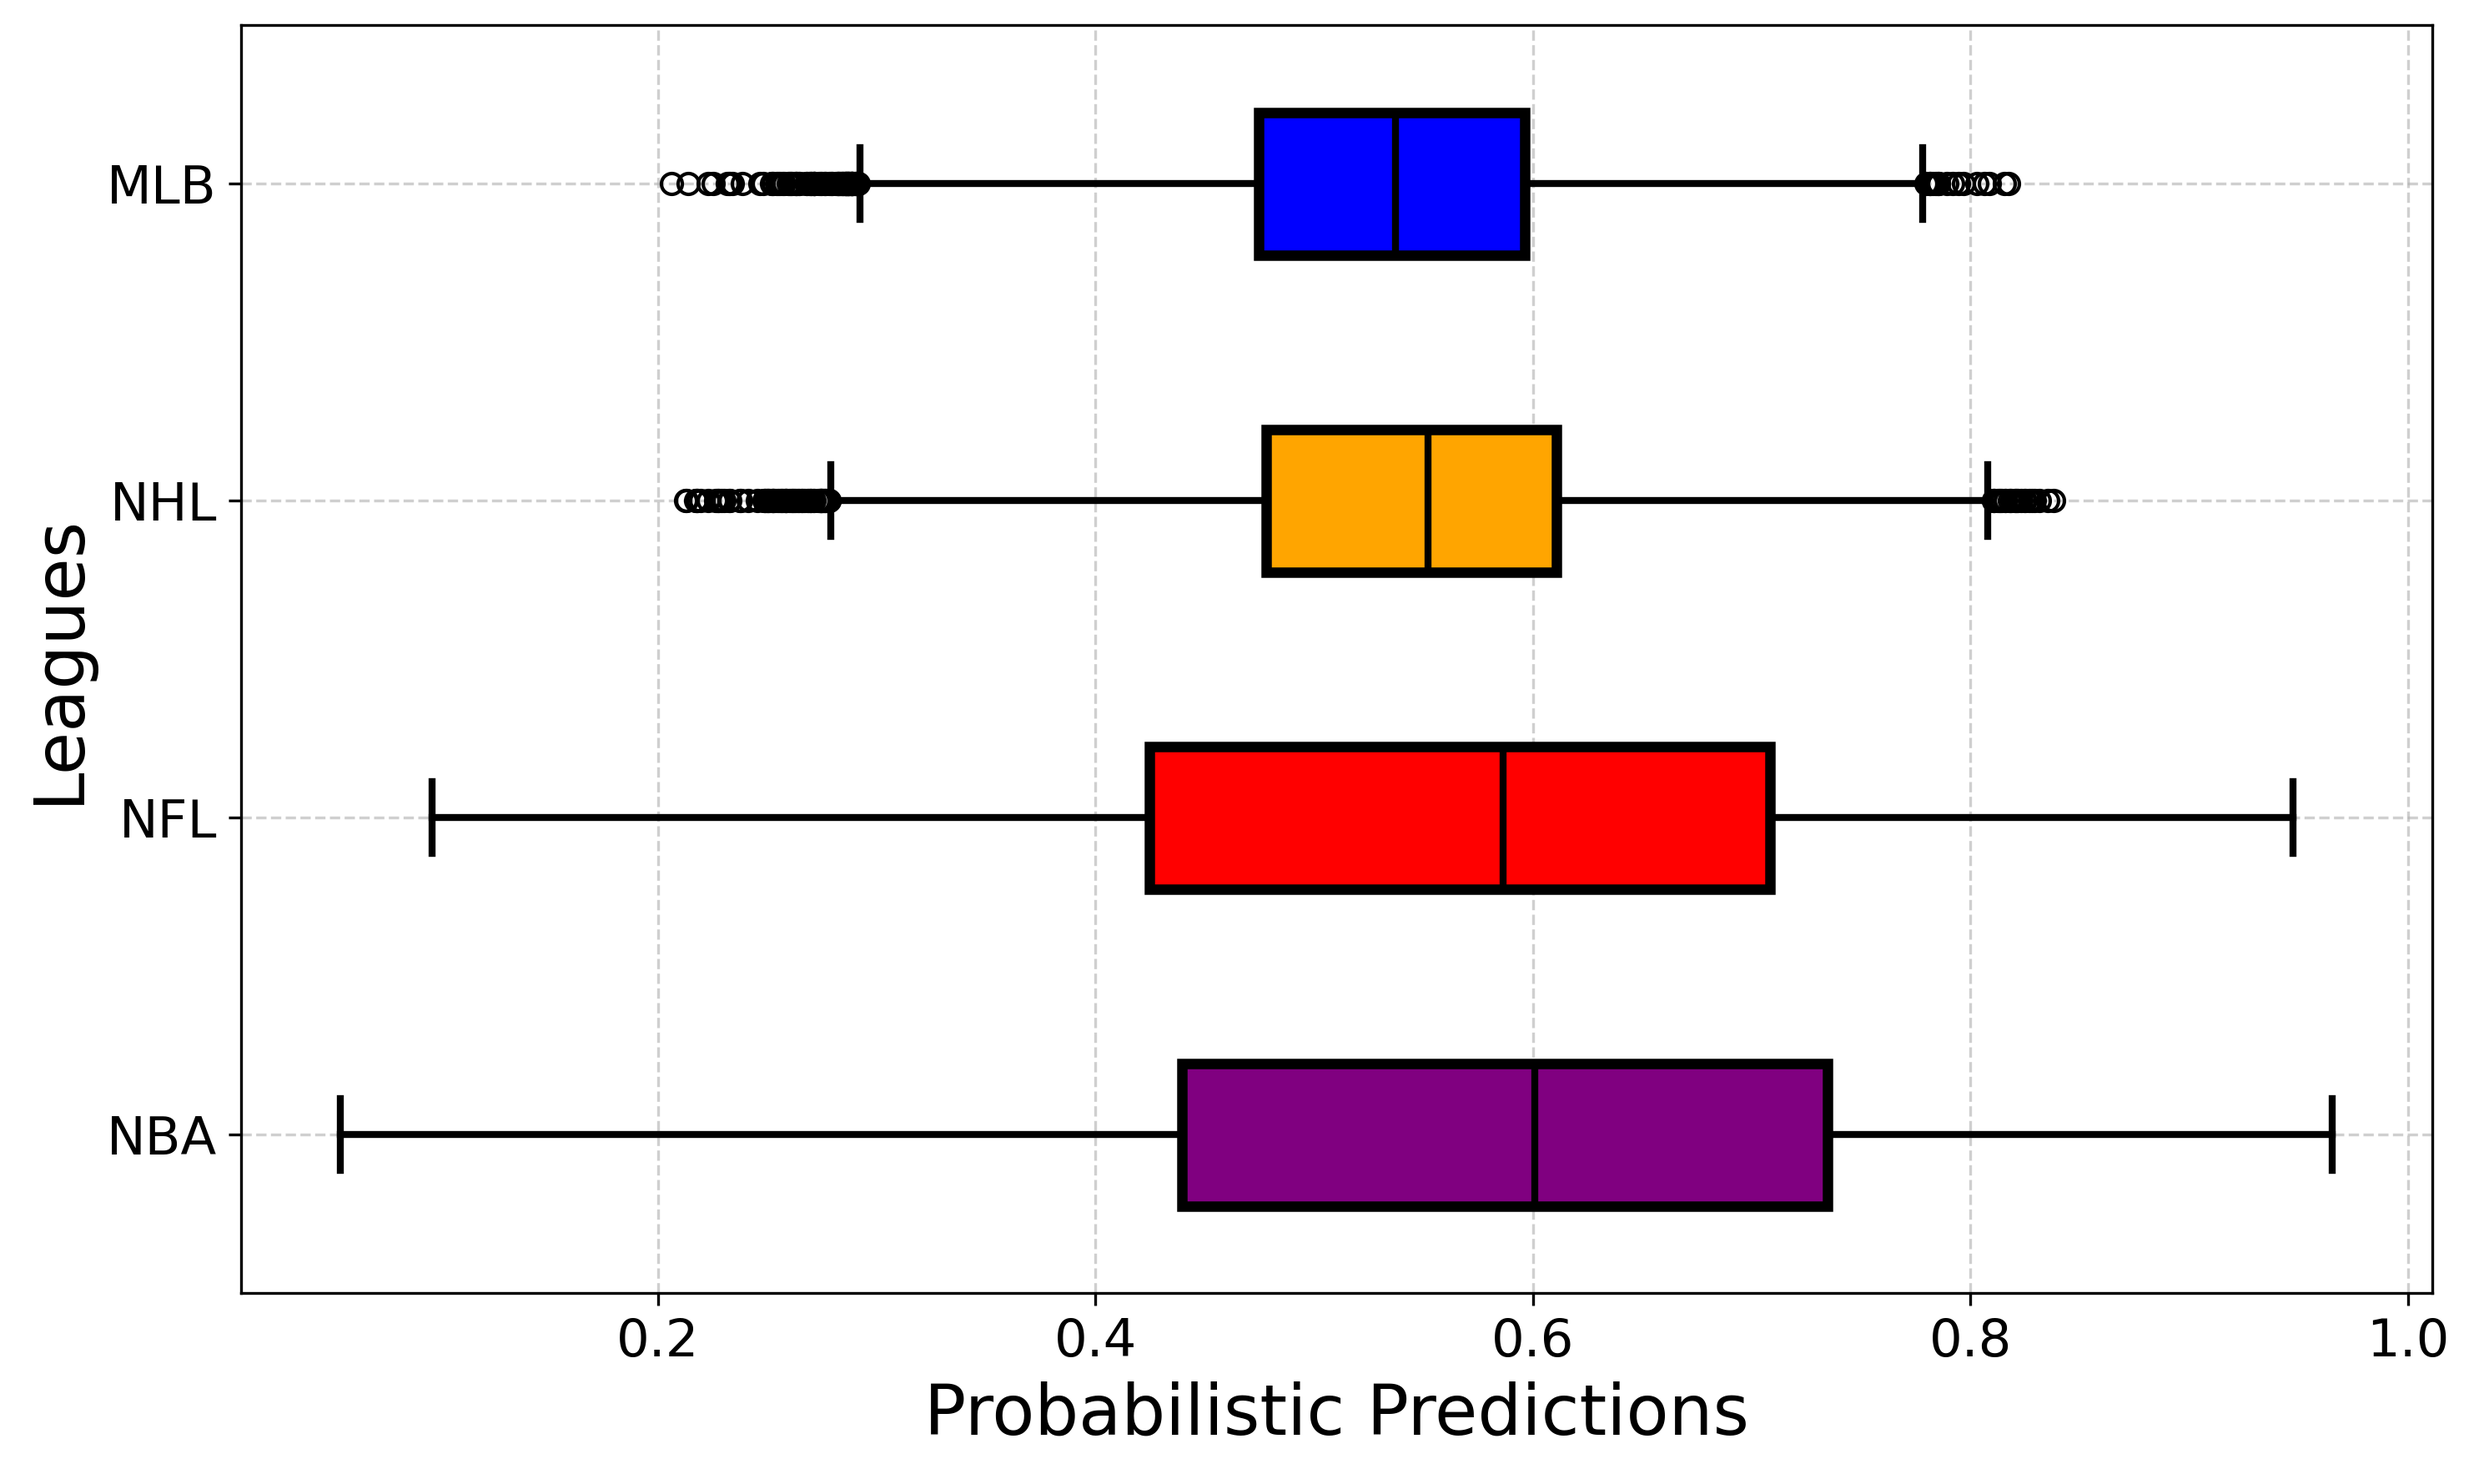
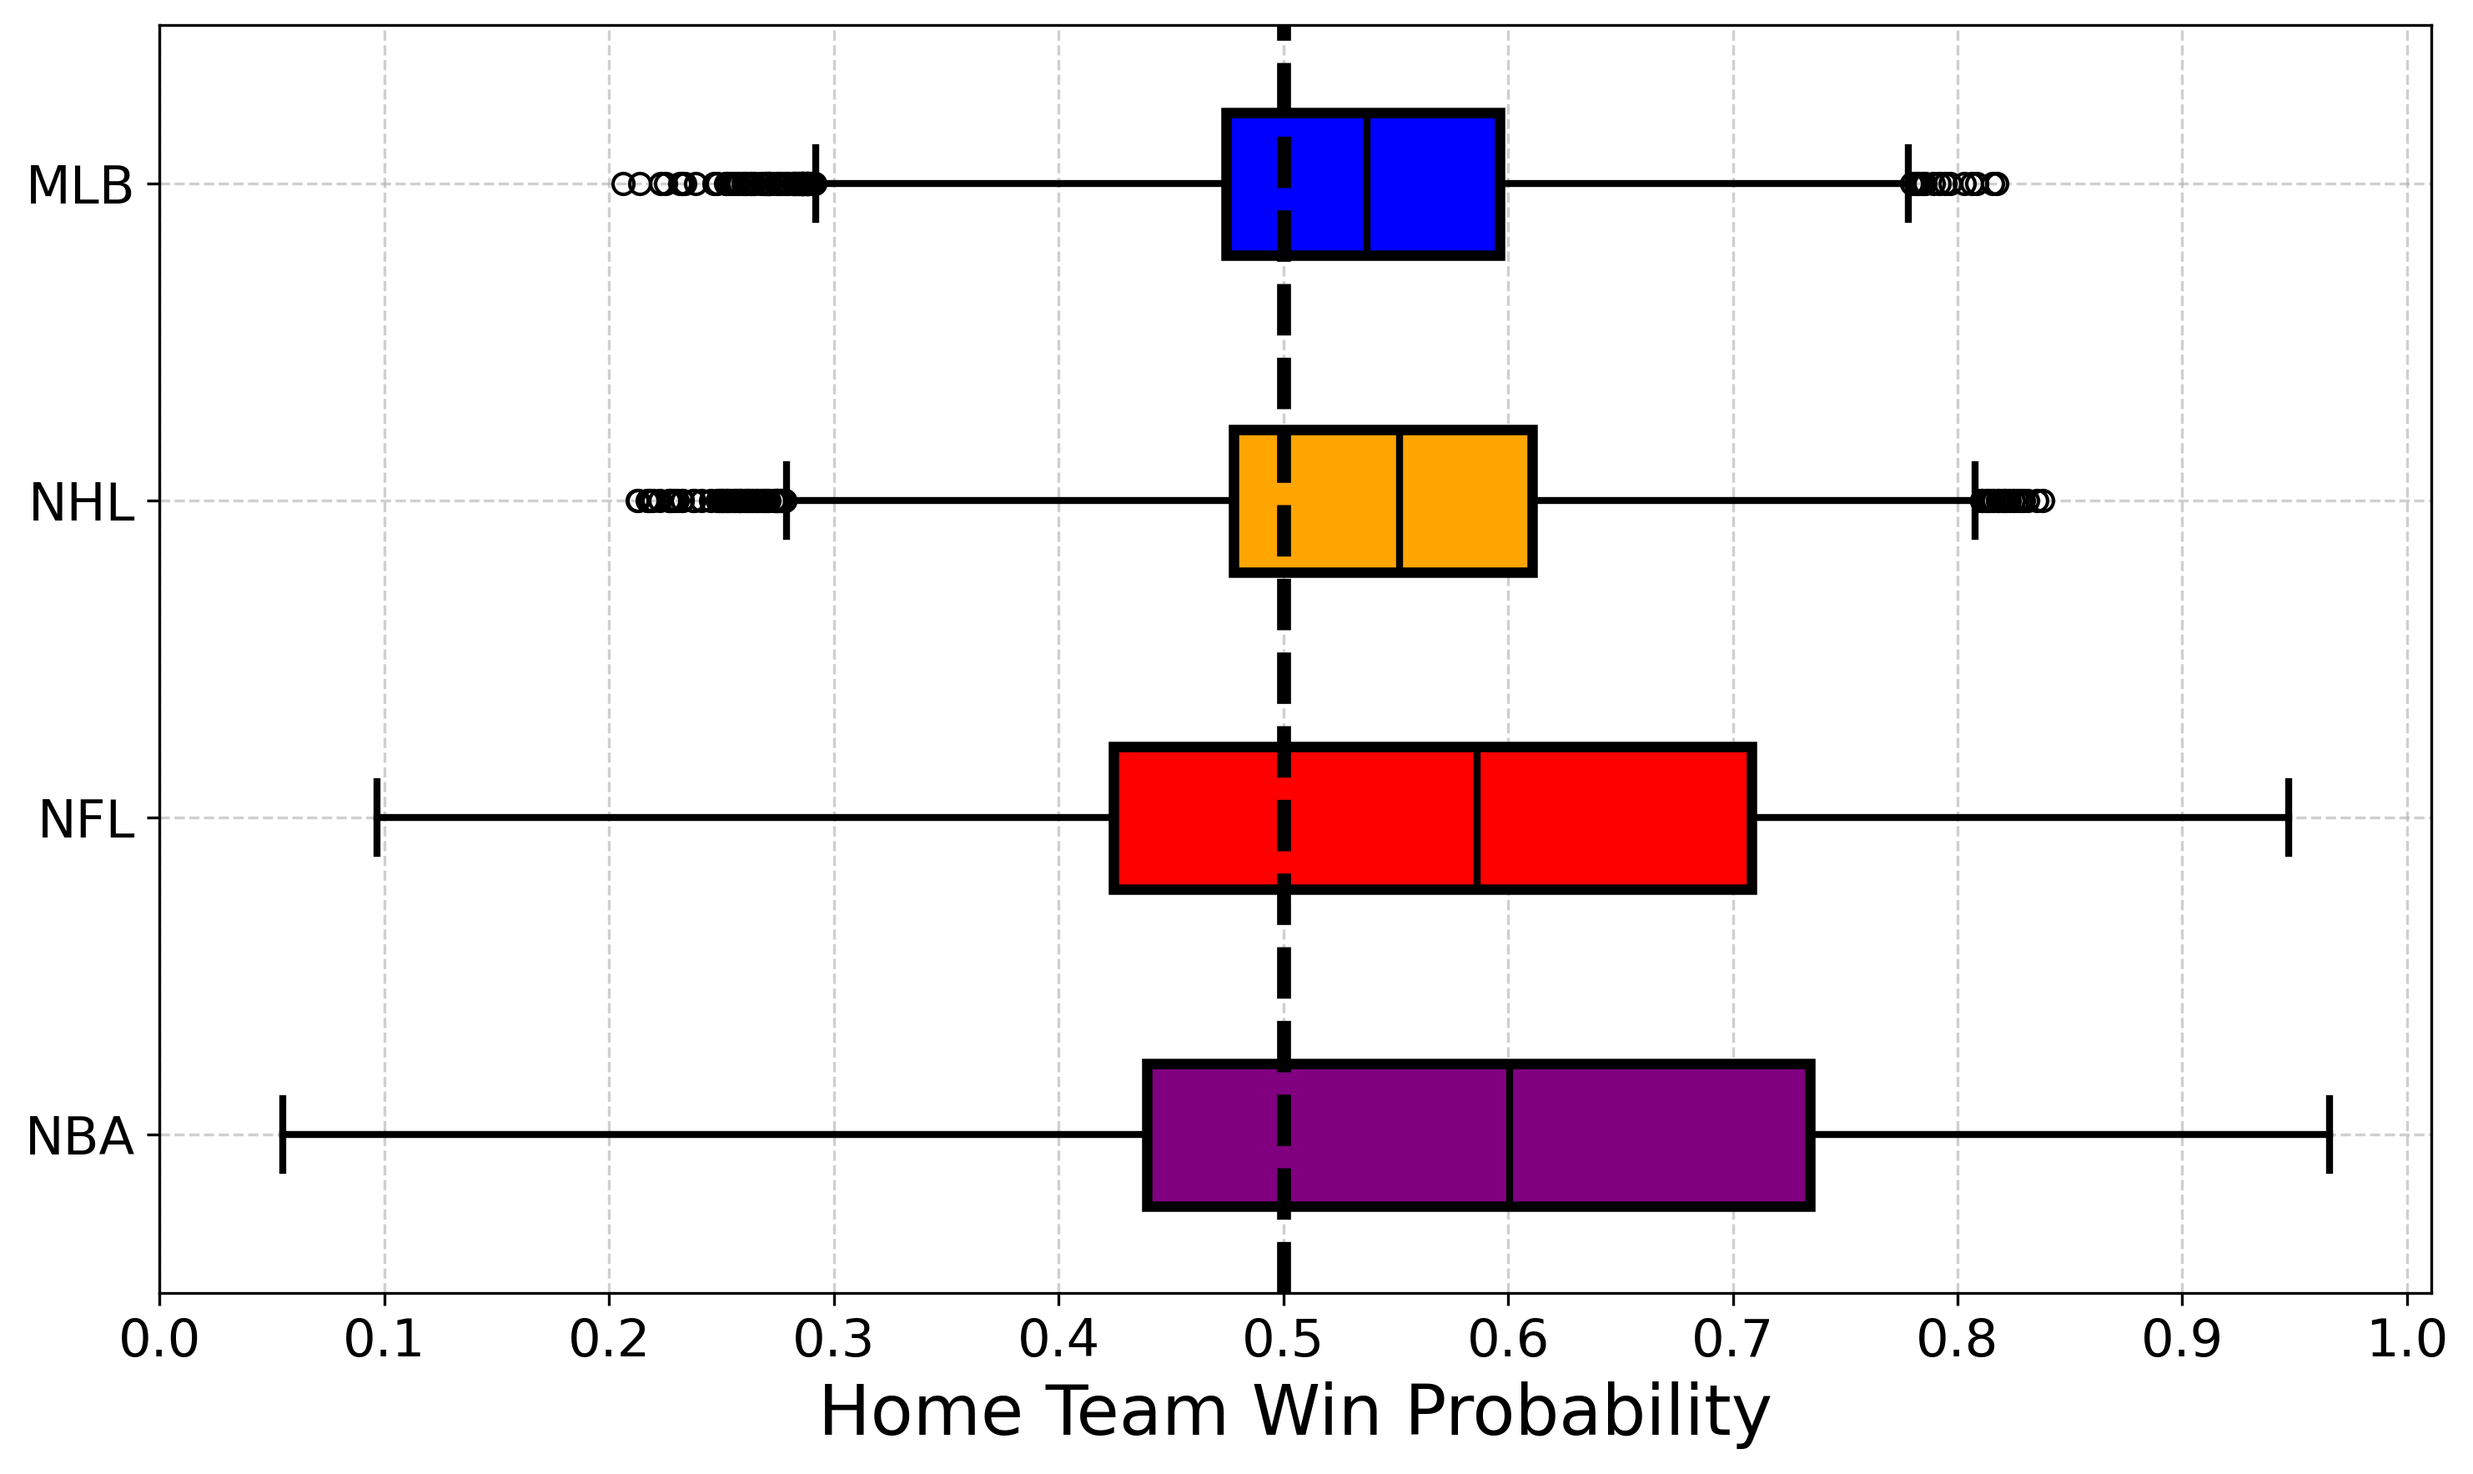
more figure updates

diff --git a/src/graphing/brier_vs_win_rate.py b/src/graphing/brier_vs_win_rate.py
@@ -3,38 +3,29 @@ import matplotlib.pyplot as plt
 import numpy as np
 from scipy.stats import pearsonr
 
-# Load data
 winrates_df = pd.read_csv("results/nfl_team_win_rates.csv")
 brier_scores_df = pd.read_csv("results/nfl_by_team.csv")
 
-# Merge data
 merged_df = pd.merge(winrates_df, brier_scores_df, on='team')
 
-# Calculate absolute difference from 0.5
 x = abs(merged_df['win_rate'] - 0.5)
 y = merged_df['brier_score']
 
-# Perform linear regression
 slope, intercept = np.polyfit(x, y, 1)
 regression_line = slope * x + intercept
 
-# Calculate Pearson correlation coefficient
 correlation, p_value = pearsonr(x, y)
 
-# Plot scatter plot and regression line
 plt.figure(figsize=(8, 6))
 plt.scatter(x, y, color='blue', alpha=0.7, label="Teams")
 plt.plot(x, regression_line, color='red', linewidth=2, label=f"Regression Line\ny = {slope:.2f}x + {intercept:.2f}")
 
-# Add correlation text
 plt.text(0.02, 0.22, f"Correlation: {correlation:.2f}\nP-value: {p_value:.2e}", fontsize=12, color="black")
 
-# Add labels, grid, and legend
 plt.xlabel('Absolute Win Rate Difference (|win_rate - 0.5|)', fontsize=14)
 plt.ylabel('Brier Score', fontsize=14)
 plt.grid(True, linestyle='--', alpha=0.6)
 plt.legend(fontsize=12)
 plt.tight_layout()
 
-# Save the figure
 plt.savefig("figures/nfl_brier_vs_win_rate_with_correlation.png", dpi=300, bbox_inches='tight')

diff --git a/src/graphing/box_plot.py b/src/graphing/box_plot.py
@@ -1,5 +1,7 @@
 import pandas as pd
 import matplotlib.pyplot as plt
+import numpy as np
+
 
 leagues = ['MLB', 'NHL', 'NFL', 'NBA']
 csv_files = [
@@ -29,10 +31,13 @@ for element in ['whiskers', 'caps']:
     plt.setp(bp[element], linewidth=2)
 plt.setp(bp['medians'], linewidth=2, color='black') 
 
-plt.ylabel("Leagues", fontsize=20)  
-plt.xlabel("Probabilistic Predictions", fontsize=20)
+plt.axvline(0.5, color='black', linestyle='--', linewidth=4)
+
+
+plt.xlabel("Home Team Win Probability", fontsize=20)
 plt.grid(True, linestyle="--", alpha=0.6)
-plt.xticks(fontsize=15)
+xticks = np.arange(0, 1.1, 0.1)
+plt.xticks(xticks, fontsize=15)
 plt.yticks(fontsize=15)
 plt.tight_layout()
 
